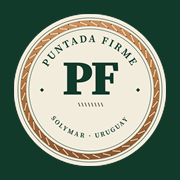
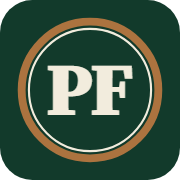
feat(landing): redraw seal with laurel, add structured data and free first fix
SEO: canonical, sitemap, robots, local keywords. Brand: new favicons, ink stamp on the delivery card.

diff --git a/index.html b/index.html
@@ -4,7 +4,7 @@
 <meta charset="UTF-8">
 <meta name="viewport" content="width=device-width, initial-scale=1">
 <title>Puntada Firme · Costura personalizada en Solymar, Ciudad de la Costa</title>
-<meta name="description" content="Costura personalizada en Solymar, Ciudad de la Costa. Arreglos, ajustes y ropa de todos los días, con décadas de oficio. Nos vemos en la entrada del barrio.">
+<meta name="description" content="Modista y costurera en Solymar, Ciudad de la Costa. Ruedos, cierres, túnicas escolares y arreglos de ropa, con décadas de oficio.">
 
 <meta property="og:type" content="website">
 <meta property="og:locale" content="es_UY">
@@ -21,6 +21,49 @@
 <meta name="twitter:description" content="Arreglos, ajustes y ropa de todos los días, con décadas de oficio. Nos vemos en la entrada, en Solymar.">
 <meta name="twitter:image" content="https://puntadafirme.com/assets/brand/seal-badge.png">
 <meta name="theme-color" content="#08241A">
+
+<link rel="canonical" href="https://puntadafirme.com/">
+
+<script type="application/ld+json">
+{
+  "@context": "https://schema.org",
+  "@type": "LocalBusiness",
+  "name": "Puntada Firme",
+  "description": "Costura personalizada en Solymar, Ciudad de la Costa: arreglos, ajustes, uniformes, ropa de bebé y de fiesta.",
+  "url": "https://puntadafirme.com/",
+  "image": "https://puntadafirme.com/assets/brand/seal-badge.png",
+  "logo": "https://puntadafirme.com/assets/brand/seal-badge.png",
+  "telephone": "+59899485236",
+  "currenciesAccepted": "UYU",
+  "address": {
+    "@type": "PostalAddress",
+    "addressLocality": "Solymar",
+    "addressRegion": "Canelones",
+    "addressCountry": "UY"
+  },
+  "areaServed": [
+    {"@type": "Place", "name": "Solymar"},
+    {"@type": "Place", "name": "Lomas de Solymar"},
+    {"@type": "Place", "name": "Lagomar"},
+    {"@type": "Place", "name": "El Pinar"},
+    {"@type": "Place", "name": "El Bosque"},
+    {"@type": "Place", "name": "Ciudad de la Costa"}
+  ],
+  "knowsLanguage": "es",
+  "hasOfferCatalog": {
+    "@type": "OfferCatalog",
+    "name": "Servicios de costura",
+    "itemListElement": [
+      {"@type": "Offer", "itemOffered": {"@type": "Service", "name": "Arreglos de pantalones y jeans"}},
+      {"@type": "Offer", "itemOffered": {"@type": "Service", "name": "Arreglos de camisas y abrigos"}},
+      {"@type": "Offer", "itemOffered": {"@type": "Service", "name": "Arreglos de polleras y vestidos"}},
+      {"@type": "Offer", "itemOffered": {"@type": "Service", "name": "Arreglos de uniformes"}},
+      {"@type": "Offer", "itemOffered": {"@type": "Service", "name": "Arreglos de ropa de bebé"}},
+      {"@type": "Offer", "itemOffered": {"@type": "Service", "name": "Arreglos de ropa de fiesta"}}
+    ]
+  }
+}
+</script>
 
 <link rel="icon" href="favicon.ico" sizes="any">
 <link rel="icon" type="image/png" sizes="32x32" href="assets/brand/favicon-32.png">
@@ -58,13 +101,12 @@
     font-family:"Inter",system-ui,sans-serif;
     font-size:17px;line-height:1.65;-webkit-font-smoothing:antialiased;
   }
-  h1,h2,h3,.serif{font-family:"Cormorant Garamond",Georgia,serif;font-weight:500;line-height:1.05;margin:0;}
+  h1,h2,h3{font-family:"Cormorant Garamond",Georgia,serif;font-weight:500;line-height:1.05;margin:0;}
   p{margin:0;}
   a{color:inherit;}
   .wrap{width:100%;max-width:1208px;margin:0 auto;padding:0 28px;}
   .label{display:inline-flex;align-items:center;gap:13px;font-size:.82rem;letter-spacing:.18em;color:var(--leather-deep);font-weight:600;}
   .label::before{content:"";width:30px;height:1.5px;background:currentColor;flex:none;opacity:.85;}
-  .rule{height:1px;background:var(--line);border:0;margin:0;}
 
   /* Botones */
   .btn{display:inline-flex;align-items:center;gap:10px;font-family:"Inter",sans-serif;font-size:.95rem;font-weight:500;
@@ -107,10 +149,6 @@
   .hero-dots button[aria-current="true"]{width:22px;background:var(--green);}
   .hero-dots button:focus-visible{outline:2px solid var(--green);outline-offset:2px;}
 
-  /* Manifiesto */
-  .manifesto{padding:66px 0;text-align:center;border-top:1px solid var(--line);border-bottom:1px solid var(--line);}
-  .manifesto p{font-family:"Cormorant Garamond",serif;font-size:clamp(1.6rem,3.4vw,2.4rem);line-height:1.28;max-width:24ch;margin:0 auto;color:var(--ink);}
-  .manifesto p em{font-style:italic;background:linear-gradient(100deg,#CFA12E 0%,#C0392B 34%,#2A4A9C 68%,#4E86C6 100%);-webkit-background-clip:text;background-clip:text;color:transparent;}
 
   /* Secciones */
   section{padding:82px 0;}
@@ -121,13 +159,7 @@
 
   /* Servicios: carta del taller */
   #servicios{background:var(--cream);}
-  .svc-grid{display:grid;grid-template-columns:1fr 1fr;gap:20px;margin-top:44px;}
-  .svc-card{border:1px solid var(--line);border-radius:12px;padding:30px 30px 28px;background:#fff;transition:border-color .2s ease,box-shadow .2s ease,transform .2s ease;}
-  .svc-card:hover{border-color:var(--leather);box-shadow:0 20px 36px -28px rgba(120,80,40,.45);transform:translateY(-3px);}
   .svc-ic{width:44px;height:44px;color:var(--leather);margin-bottom:18px;display:block;}
-  .svc-card h3{font-family:"Cormorant Garamond",serif;font-weight:600;font-size:1.55rem;color:var(--ink);line-height:1.1;}
-  .svc-card p{color:var(--muted);font-size:1rem;margin-top:8px;}
-  .svc-tags{margin-top:16px;font-size:.7rem;letter-spacing:.14em;text-transform:uppercase;color:var(--leather-deep);}
   .packs{display:grid;grid-template-columns:repeat(3,1fr);gap:24px;margin-top:32px;}
   .pack{position:relative;display:flex;flex-direction:column;align-items:center;text-align:center;padding:30px 26px 28px;border:1px solid var(--line);border-radius:20px;background:#fff;box-shadow:0 20px 38px -30px rgba(120,80,40,.55);}
   .pack img{width:136px;height:136px;border-radius:50%;object-fit:cover;filter:sepia(.2) saturate(.95) brightness(1.03);box-shadow:0 14px 26px -14px rgba(120,80,40,.75);}
@@ -151,18 +183,12 @@
   .rate-list li>span:first-child{color:var(--ink);font-size:1rem;}
   .rate-dots{flex:1;min-width:20px;align-self:center;height:0;border-bottom:1px dotted rgba(172,115,63,.4);}
   .rate-price{flex:none;font-family:"EB Garamond",serif;font-weight:600;font-size:1.2rem;color:var(--leather);white-space:nowrap;}
-  .rate-note{margin-top:26px;text-align:center;font-family:"Cormorant Garamond",serif;font-style:italic;font-size:1.22rem;color:var(--muted);}
+  .rate-promise{margin-top:34px;text-align:center;}
+  .rate-promise p{font-family:"Cormorant Garamond",serif;font-size:clamp(1.5rem,3.1vw,2.1rem);line-height:1.24;color:var(--green);}
+  .rate-promise em{color:var(--leather);font-weight:600;}
+  .rate-promise .rate-note{margin-top:12px;font-family:"Cormorant Garamond",serif;font-style:italic;font-size:1.08rem;line-height:1.4;color:var(--muted);}
   .rate-cta{margin-top:26px;text-align:center;}
 
-  /* El oficio */
-  .craft{background:var(--cream);}
-  .craft-grid{display:grid;grid-template-columns:1fr 1fr;gap:56px;align-items:center;}
-  .craft h2{font-size:clamp(2.1rem,4.2vw,3rem);}
-  .craft .big{font-family:"Cormorant Garamond",serif;font-size:clamp(1.5rem,3vw,2rem);line-height:1.35;color:var(--ink);}
-  .craft .big em{font-style:italic;background:linear-gradient(100deg,#CFA12E 0%,#C0392B 34%,#2A4A9C 68%,#4E86C6 100%);-webkit-background-clip:text;background-clip:text;color:transparent;}
-  .craft ul{list-style:none;padding:0;margin:26px 0 0;}
-  .craft li{padding:14px 0;border-top:1px solid var(--line);color:var(--muted);display:flex;gap:14px;}
-  .craft li::before{content:"";width:8px;height:8px;margin-top:9px;flex:none;background:var(--leather-deep);border-radius:50%;}
 
   /* Zona / mapa */
   .zona{background:var(--bg);}
@@ -175,6 +201,7 @@
   .zona-deliver{display:flex;align-items:center;gap:18px;margin-top:28px;padding:20px 24px;border-radius:16px;background:var(--linen);box-shadow:0 16px 30px -26px rgba(120,80,40,.6);}
   .zona-deliver svg{flex:none;width:52px;height:52px;color:var(--leather);}
   .zona-deliver p{font-family:"EB Garamond",serif;font-size:1.16rem;line-height:1.35;color:var(--green);}
+  .zona-stamp{flex:none;width:86px;height:86px;margin-left:auto;transform:rotate(-8deg);opacity:.85;}
   .zona-deliver strong{font-weight:600;}
   .map{position:relative;isolation:isolate;width:100%;border:1px solid var(--line);border-radius:12px;background:var(--bg);overflow:hidden;box-shadow:0 20px 40px -30px rgba(120,80,40,.4);}
   #cobertura-map{width:100%;height:520px;background:var(--bg);}
@@ -185,15 +212,7 @@
   .map-card-eyebrow{display:block;font-size:.66rem;letter-spacing:.18em;color:var(--leather-deep);font-weight:600;}
   .map-card-title{display:block;font-family:"Cormorant Garamond",serif;font-weight:600;font-size:1.5rem;color:var(--ink);margin-top:6px;line-height:1.05;}
   .map-card-line{color:var(--muted);font-size:.9rem;margin-top:8px;line-height:1.42;}
-  .map-card-cta{display:inline-flex;align-items:center;gap:8px;margin-top:15px;background:var(--green);color:#fff;font-size:.85rem;font-weight:500;padding:9px 16px;border-radius:999px;text-decoration:none;transition:background .2s ease;}
-  .map-card-cta::after{content:"→";}
-  .map-card-cta:hover{background:var(--green-light);}
 
-  /* Cómo funciona */
-  .steps{display:grid;grid-template-columns:repeat(3,1fr);gap:40px;margin-top:44px;}
-  .step .n{font-family:"Cormorant Garamond",serif;font-size:3.4rem;color:var(--leather-deep);line-height:1;}
-  .step h3{font-size:1.5rem;margin-top:10px;color:var(--ink);}
-  .step p{color:var(--muted);font-size:1rem;margin-top:10px;}
 
   /* CTA final */
   .final{background-image:var(--linen-tex),linear-gradient(180deg,var(--green),var(--green-deep));background-size:300px,auto;background-blend-mode:overlay,normal;color:#fff;text-align:center;}
@@ -343,9 +362,8 @@
   .gen-slogan .flag{width:.86em;height:.58em;vertical-align:.1em;}
   .gen-slogan{text-align:center;font-family:"EB Garamond",serif;font-weight:600;font-size:clamp(2rem,4.4vw,2.8rem);line-height:1.18;color:var(--cream);margin-top:64px;}
   @media(max-width:820px){
-    .hero-grid,.craft-grid,.zona-grid{grid-template-columns:1fr;gap:40px;}
+    .hero-grid,.zona-grid{grid-template-columns:1fr;gap:40px;}
     .hero-media{order:-1;}
-    .svc-grid{grid-template-columns:1fr;}
     .packs{grid-template-columns:1fr;gap:18px;}
     .pack{padding:26px 22px 24px;}
     .pack img{width:120px;height:120px;}
@@ -386,6 +404,9 @@
     .mark{gap:12px;}
     .mark img{width:56px;height:56px;}
     .mark .brand-name{font-size:1.35rem;}
+    .zona-deliver{gap:12px;padding:18px;}
+    .zona-deliver svg{width:42px;height:42px;}
+    .zona-stamp{width:64px;height:64px;}
   }
   @media(prefers-reduced-motion:reduce){*{animation:none!important;transition:none!important;scroll-behavior:auto;}}
   .rise{opacity:0;transform:translateY(12px);animation:rise .8s ease .05s forwards;}
@@ -491,7 +512,7 @@
 <header>
   <div class="wrap bar">
     <a class="mark" href="#">
-      <img src="assets/brand/seal-cream.png" alt="" width="192" height="192">
+      <img src="assets/brand/seal-cream.png" alt="" width="256" height="256">
       <span class="brand-name">Puntada Firme</span>
     </a>
     <a class="btn btn-primary" href="https://wa.me/59899485236?text=Hola%20Zulari!%20Vi%20tu%20p%C3%A1gina%20y%20quer%C3%ADa%20consultar%20por%20una%20prenda." target="_blank" rel="noopener">
@@ -507,7 +528,7 @@
     <div class="rise">
       <span class="label">Costura VENEZOLANA · CIUDAD DE LA COSTA</span>
       <h1>Que cada prenda te quede <em>como fue pensada.</em></h1>
-      <p class="lead">Arreglos, ajustes y la ropa de todos los días, con décadas de oficio.</p>
+      <p class="lead">Arreglos y ajustes de ropa en Solymar, Ciudad de la Costa, con décadas de oficio.</p>
       <div class="hero-cta">
         <a class="btn btn-primary" href="https://wa.me/59899485236?text=Hola%20Zulari!%20Vi%20tu%20p%C3%A1gina%20y%20quer%C3%ADa%20consultar%20por%20una%20prenda." target="_blank" rel="noopener">
           <svg class="wa" viewBox="0 0 24 24" aria-hidden="true"><path class="g" d="M12 2a10 10 0 0 0-8.5 15.3L2 22l4.8-1.5A10 10 0 1 0 12 2zm0 18a8 8 0 0 1-4.1-1.1l-.3-.2-2.8.9.9-2.7-.2-.3A8 8 0 1 1 12 20zm4.5-6c-.2-.1-1.4-.7-1.7-.8s-.4-.1-.5.1-.6.8-.8 1-.3.2-.5.1a6.5 6.5 0 0 1-1.9-1.2 7.3 7.3 0 0 1-1.4-1.7c-.1-.3 0-.4.1-.5l.4-.5c.1-.2.2-.3.2-.4a.5.5 0 0 0 0-.5c0-.1-.5-1.3-.7-1.8s-.4-.4-.5-.4h-.5a.9.9 0 0 0-.7.3 2.8 2.8 0 0 0-.9 2.1 4.9 4.9 0 0 0 1 2.6 11.2 11.2 0 0 0 4.3 3.8c.6.3 1.1.4 1.5.5a3.5 3.5 0 0 0 1.6.1c.5-.1 1.4-.6 1.6-1.1s.2-1 .1-1.1-.2-.2-.5-.3z"/></svg>
@@ -583,8 +604,8 @@
     <div class="packs">
       <article class="pack">
         <span class="pack-save">Ahorrás $100</span>
-        <img src="assets/pack-wardrobe.jpg" alt="Remeras colgadas en perchas de madera" width="440" height="440" loading="lazy">
-        <h3>Pack 2 dobladillos</h3>
+        <img src="assets/pack-jeans.jpg" alt="Pantalones de jean doblados" width="440" height="440" loading="lazy">
+        <h3>Pack 2 ruedos</h3>
         <p>Dos pantalones, un solo viaje.</p>
         <span class="pack-price">$600</span>
       </article>
@@ -598,7 +619,7 @@
       </article>
       <article class="pack">
         <span class="pack-save">Ahorrás $200</span>
-        <img src="assets/pack-party.jpg" alt="Detalle de un vestido de fiesta con perlas" width="440" height="440" loading="lazy">
+        <img src="assets/pack-dress.jpg" alt="Vestidos colgados en un perchero del taller" width="440" height="440" loading="lazy">
         <h3>Pack vestido listo</h3>
         <p>Dobladillo y entalle en la misma prenda.</p>
         <span class="pack-price">$1.100</span>
@@ -612,7 +633,7 @@
           <h3>Pantalones y jeans</h3>
         </div>
         <ul class="rate-list">
-          <li><span>Dobladillo de pantalón</span><span class="rate-dots"></span><span class="rate-price">$350</span></li>
+          <li><span>Ruedo de pantalón</span><span class="rate-dots"></span><span class="rate-price">$350</span></li>
           <li><span>Dobladillo de jean con remate</span><span class="rate-dots"></span><span class="rate-price">$600</span></li>
           <li><span>Estrechar cintura</span><span class="rate-dots"></span><span class="rate-price">$600</span></li>
           <li><span>Cambiar cierre</span><span class="rate-dots"></span><span class="rate-price">$600</span></li>
@@ -636,7 +657,7 @@
           <h3>Polleras y vestidos</h3>
         </div>
         <ul class="rate-list">
-          <li><span>Dobladillo de pollera</span><span class="rate-dots"></span><span class="rate-price">$450</span></li>
+          <li><span>Ruedo de pollera</span><span class="rate-dots"></span><span class="rate-price">$450</span></li>
           <li><span>Estrechar falda</span><span class="rate-dots"></span><span class="rate-price">$600</span></li>
           <li><span>Cambiar cierre</span><span class="rate-dots"></span><span class="rate-price">$600</span></li>
         </ul>
@@ -644,11 +665,11 @@
       <article class="rate-card">
         <div class="rate-head">
           <svg class="svc-ic" viewBox="0 0 24 24" fill="none" stroke="currentColor" stroke-width="1.4" stroke-linecap="round" stroke-linejoin="round"><path d="M9 4 5 6l1.6 3.6L9 8.4"/><path d="M15 4l4 2-1.6 3.6L15 8.4"/><path d="M9 4l3 2.3L15 4"/><path d="M9 8.4V20.5h6V8.4"/></svg>
-          <h3>Uniformes</h3>
+          <h3>Túnicas y uniformes</h3>
         </div>
         <ul class="rate-list">
-          <li><span>Dobladillo escolar</span><span class="rate-dots"></span><span class="rate-price">$300</span></li>
-          <li><span>Ajuste de talle</span><span class="rate-dots"></span><span class="rate-price">$500</span></li>
+          <li><span>Ruedo de túnica</span><span class="rate-dots"></span><span class="rate-price">$300</span></li>
+          <li><span>Achicar túnica</span><span class="rate-dots"></span><span class="rate-price">$500</span></li>
           <li><span>De trabajo o militar</span><span class="rate-dots"></span><span class="rate-price">$700</span></li>
         </ul>
       </article>
@@ -676,7 +697,10 @@
         </ul>
       </article>
     </div>
-    <p class="rate-note">Precios orientativos en pesos. El final se confirma al ver la prenda.</p>
+    <div class="rate-promise">
+      <p>Si no te queda perfecta, vuelve. <em>El primer arreglo es gratis.</em></p>
+      <p class="rate-note">Dentro de los 15 días y sobre el mismo arreglo.</p>
+    </div>
     <div class="rate-cta">
       <a class="btn btn-primary" href="https://wa.me/59899485236?text=Hola%20Zulari!%20Vi%20las%20tarifas%20y%20quer%C3%ADa%20consultar%20por%20una%20prenda." target="_blank" rel="noopener">
         <svg class="wa" viewBox="0 0 24 24" aria-hidden="true"><path class="g" d="M12 2a10 10 0 0 0-8.5 15.3L2 22l4.8-1.5A10 10 0 1 0 12 2zm0 18a8 8 0 0 1-4.1-1.1l-.3-.2-2.8.9.9-2.7-.2-.3A8 8 0 1 1 12 20zm4.5-6c-.2-.1-1.4-.7-1.7-.8s-.4-.1-.5.1-.6.8-.8 1-.3.2-.5.1a6.5 6.5 0 0 1-1.9-1.2 7.3 7.3 0 0 1-1.4-1.7c-.1-.3 0-.4.1-.5l.4-.5c.1-.2.2-.3.2-.4a.5.5 0 0 0 0-.5c0-.1-.5-1.3-.7-1.8s-.4-.4-.5-.4h-.5a.9.9 0 0 0-.7.3 2.8 2.8 0 0 0-.9 2.1 4.9 4.9 0 0 0 1 2.6 11.2 11.2 0 0 0 4.3 3.8c.6.3 1.1.4 1.5.5a3.5 3.5 0 0 0 1.6.1c.5-.1 1.4-.6 1.6-1.1s.2-1 .1-1.1-.2-.2-.5-.3z"/></svg>
@@ -704,7 +728,8 @@
       <p class="cap">Si estás un poco más lejos, consúltame de todas formas.</p>
       <div class="zona-deliver">
         <svg aria-hidden="true"><use href="#delivery-bag"/></svg>
-        <p>Cada prenda vuelve <strong>protegida y sellada</strong>, con el cuidado de Puntada Firme.</p>
+        <p>Cada prenda vuelve <strong>protegida y sellada</strong>, con el cuidado de Puntada Firme</p>
+        <img class="zona-stamp" src="assets/brand/stamp-seal.png" alt="Sello de Puntada Firme" width="258" height="258" loading="lazy">
       </div>
     </div>
     <div class="map" aria-label="Zona de cobertura en Ciudad de la Costa">
@@ -830,7 +855,7 @@
   <div class="wrap">
     <div class="foot">
       <div class="foot-brand">
-        <img src="assets/brand/seal-cream.png" alt="" width="192" height="192" loading="lazy">
+        <img src="assets/brand/seal-cream.png" alt="" width="256" height="256" loading="lazy">
         <div>
           <div class="brand-name">Puntada Firme</div>
           <div class="sub">COSTURA VENEZOLANA · SOLYMAR</div>
